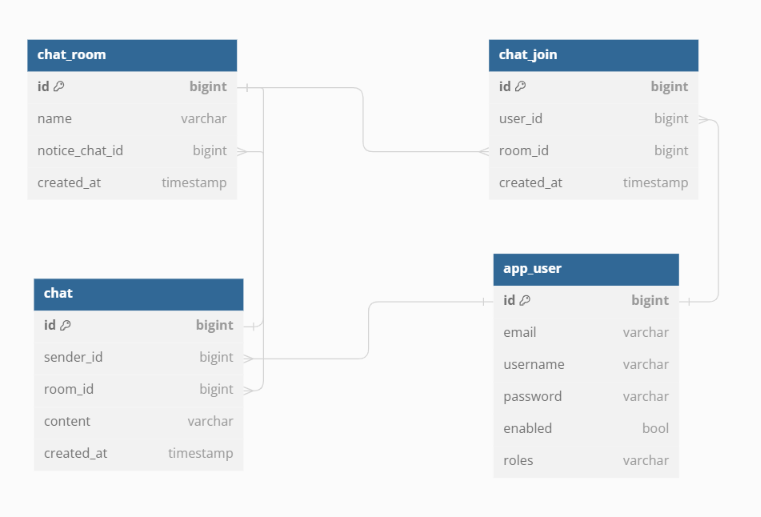
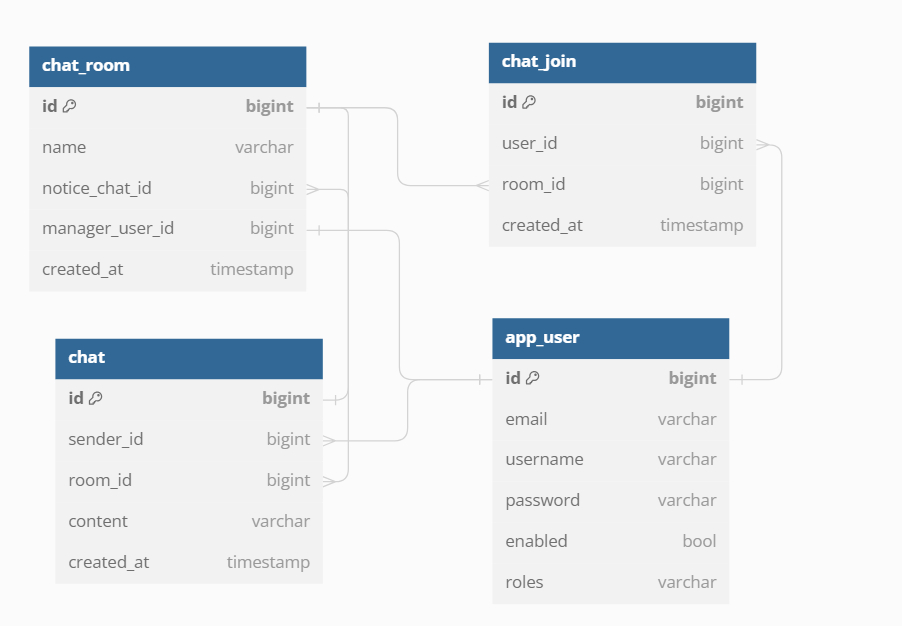
docs: ERD 변경

diff --git a/docs/feature.md b/docs/feature.md
@@ -41,9 +41,6 @@
   <summary> 현재 ERD 정의 코드</summary>
 
 ```
-// Use DBML to define your database structure
-// Docs: https://dbml.dbdiagram.io/docs
-
 Table app_user {
 id bigint [primary key]
 email varchar
@@ -65,6 +62,7 @@ Table chat_room{
 id bigint [primary key]
 name varchar
 notice_chat_id bigint
+manager_user_id bigint [ref: - app_user.id]
 created_at timestamp
 }
 
@@ -81,6 +79,5 @@ Ref: chat.room_id > chat_room.id
 Ref: chat_room.notice_chat_id > chat.id
 Ref: chat_join.user_id > app_user.id
 Ref: chat_join.room_id > chat_room.id
-
 ```
 </details>
